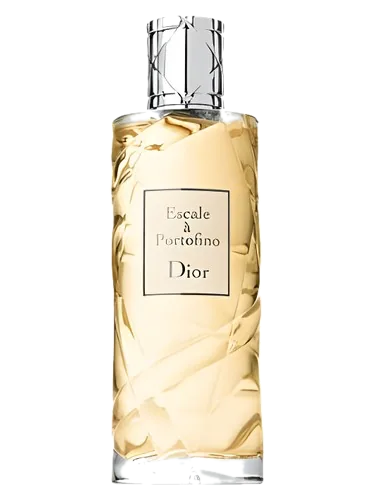
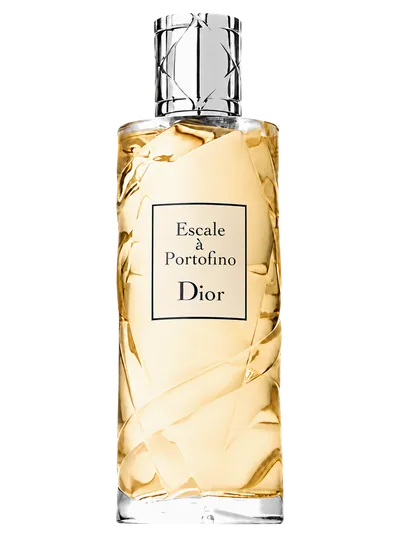
La dernière photo trop petite, reconstituée à partir de l'originale
Dior Escale à Portofino était le seul flacon qui restait en 375 px : la
collection Cruise est arrêtée, et son packshot n'existe en pleine
définition sur aucun site — cherché chez la maison, chez huit revendeurs
et par recherche web. Le client a fait reconstituer l'image à partir de la
petite, fond transparent, 1086×1448. Elle est fidèle au flacon : même
forme, même cannage, même étiquette, même bouchon, même jus.

La chaîne de traitement accepte maintenant un fichier local en plus d'une
adresse web. C'est le seul moyen de poser un visuel qui n'existe nulle
part en ligne — celui-ci, ou une photo que le client prendrait lui-même.

Les 338 fiches ont désormais leur photo en 750 px.

diff --git a/assets/js/catalogue-bientot.js b/assets/js/catalogue-bientot.js
@@ -88,7 +88,7 @@
     {"id": "dior-addict-2", "brand": "Dior", "brandId": "dior", "name": "Addict 2", "notesTop": ["Pamplemousse", "Freesia", "Orange", "Bergamote"], "notesHeart": ["Grenade", "Lotus", "Pastèque", "Ananas", "Muguet"], "notesBase": ["Musc blanc", "Cèdre", "Bois de santal"], "gender": "femme", "type": "decant", "bientot": true, "supplierAvailable": false, "new": true, "badge": "new", "badgeLabel": "Bientôt", "family": "floral", "annee": "2005", "accords": ["agrume", "floral", "boisé", "épicé frais", "fruité", "aquatique"], "image": "assets/images/products/dior-addict-2.webp", "imageWidth": 528},
     {"id": "dior-homme-2005", "brand": "Dior", "brandId": "dior", "name": "Homme 2005", "notesTop": ["Lavande", "Bergamote", "Sauge"], "notesHeart": ["Iris", "Cacao", "Ambre", "Cardamome"], "notesBase": ["Cuir", "Vétiver de Tahiti", "Patchouli"], "gender": "homme", "type": "decant", "bientot": true, "supplierAvailable": false, "new": true, "badge": "new", "badgeLabel": "Bientôt", "family": "boisé", "annee": "2005", "parfumeur": "Olivier Polge", "accords": ["iris", "épicé chaud", "aromatique", "terreux", "cacao", "poudré"], "image": "assets/images/products/dior-homme-2005.webp", "imageWidth": 750},
     {"id": "dior-addict-eau-de-parfum", "brand": "Dior", "brandId": "dior", "name": "Addict Eau de Parfum", "notesTop": ["Mandarine", "Arbre à soie", "Fleur d'oranger"], "notesHeart": ["Reine de la nuit", "Rose de Bulgarie"], "notesBase": ["Vanille", "Fève de tonka", "Bois de santal"], "gender": "femme", "type": "decant", "bientot": true, "supplierAvailable": false, "new": true, "badge": "new", "badgeLabel": "Bientôt", "family": "oriental", "annee": "2012", "parfumeur": "François Demachy", "accords": ["vanille", "fleurs blanches", "agrume", "sucré", "poudré", "floral"], "image": "assets/images/products/dior-addict-eau-de-parfum.webp", "imageWidth": 540},
-    {"id": "dior-cruise-collection-escale-a-portofino", "brand": "Dior", "brandId": "dior", "name": "Cruise Collection - Escale a Portofino", "notesTop": ["Bergamote", "Citron", "Petit-grain"], "notesHeart": ["Fleur d'oranger", "Baies de genévrier", "Amande"], "notesBase": ["Cyprès", "Cèdre", "Musc", "Férule gommeuse", "Carvi"], "gender": "femme", "type": "decant", "bientot": true, "supplierAvailable": false, "new": true, "badge": "new", "badgeLabel": "Bientôt", "family": "aromatique", "annee": "2008", "parfumeur": "François", "accords": ["agrume", "aromatique", "épicé frais", "boisé", "fleurs blanches", "vert"], "image": "assets/images/products/dior-cruise-collection-escale-a-portofino.webp", "imageWidth": 375},
+    {"id": "dior-cruise-collection-escale-a-portofino", "brand": "Dior", "brandId": "dior", "name": "Cruise Collection - Escale a Portofino", "notesTop": ["Bergamote", "Citron", "Petit-grain"], "notesHeart": ["Fleur d'oranger", "Baies de genévrier", "Amande"], "notesBase": ["Cyprès", "Cèdre", "Musc", "Férule gommeuse", "Carvi"], "gender": "femme", "type": "decant", "bientot": true, "supplierAvailable": false, "new": true, "badge": "new", "badgeLabel": "Bientôt", "family": "aromatique", "annee": "2008", "parfumeur": "François", "accords": ["agrume", "aromatique", "épicé frais", "boisé", "fleurs blanches", "vert"], "image": "assets/images/products/dior-cruise-collection-escale-a-portofino.webp", "imageWidth": 750},
     {"id": "memo-paris-siwa", "brand": "Memo Paris", "brandId": "memo-paris", "name": "Siwa", "notesTop": ["Narcisse", "Freesia", "Feuille de cannelier"], "notesHeart": ["Héliotrope", "Bois de santal", "Encens"], "notesBase": ["Vanille", "Musc", "Benjoin"], "gender": "femme", "type": "decant", "bientot": true, "supplierAvailable": false, "new": true, "badge": "new", "badgeLabel": "Bientôt", "family": "oriental", "annee": "2007", "parfumeur": "Alienor Massenet", "accords": ["vanille", "poudré", "floral", "fleurs jaunes", "musqué", "vert"], "image": "assets/images/products/memo-paris-siwa.webp", "imageWidth": 750},
     {"id": "memo-paris-sherwood", "brand": "Memo Paris", "brandId": "memo-paris", "name": "Sherwood", "notesTop": ["Graines de carotte", "Cassis", "Poivre rose"], "notesHeart": ["Fleur d'oranger", "Rose de Damas", "Epices"], "notesBase": ["Bois de santal", "Bois de cachemire", "Chêne"], "gender": "unisexe", "type": "decant", "bientot": true, "supplierAvailable": false, "new": true, "badge": "new", "badgeLabel": "Bientôt", "annee": "2022", "parfumeur": "Juliette Karagueuzoglou", "accords": ["boisé", "poudré", "musqué", "épicé chaud", "rose", "épicé doux"], "image": "assets/images/products/memo-paris-sherwood.webp", "imageWidth": 720},
     {"id": "memo-paris-shams-oud", "brand": "Memo Paris", "brandId": "memo-paris", "name": "Shams Oud", "notesTop": ["Poivre", "Gingembre"], "notesHeart": ["Huile essentielle de cypriol", "Bois de cachemire"], "notesBase": ["Oud", "Baumier du Pérou", "Vétiver", "Styrax"], "gender": "unisexe", "type": "decant", "bientot": true, "supplierAvailable": false, "new": true, "badge": "new", "badgeLabel": "Bientôt", "family": "oriental", "annee": "2011", "parfumeur": "Alienor Massenet", "accords": ["boisé", "ambre", "balsamique/baumé", "oud", "épicé frais", "terreux"], "image": "assets/images/products/memo-paris-shams-oud.webp", "imageWidth": 750},
